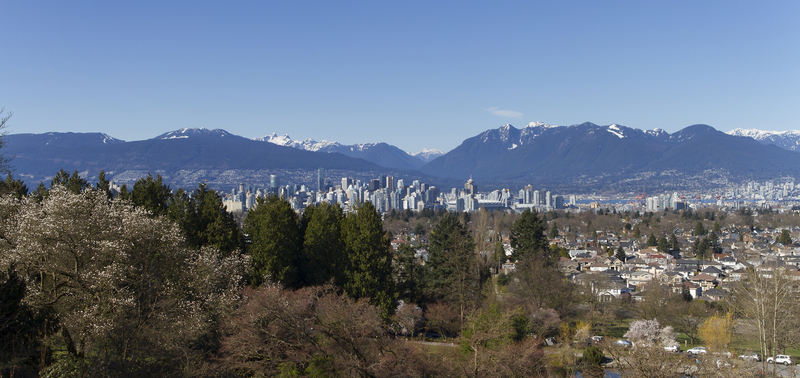
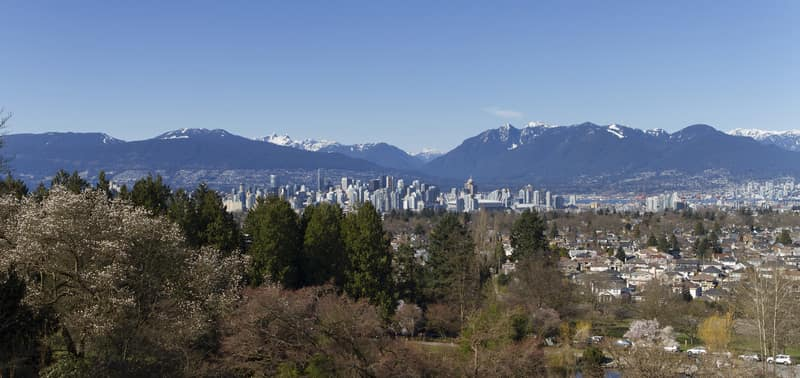
Shrink the home hero and let listing photos resize.
The hero file was a heavy JPEG at a small pixel size. Listing photos from the feed now go through the image optimizer instead of the full original.

diff --git a/src/components/property-card.tsx b/src/components/property-card.tsx
@@ -51,7 +51,7 @@ export function PropertyCard({
               sizes="(max-width: 640px) 100vw, (max-width: 1024px) 50vw, 33vw"
               className="property-image object-cover"
               priority={priority}
-              unoptimized={property.images[0].startsWith("http")}
+              unoptimized={property.images[0].startsWith("http") && !property.images[0].includes("ddfcdn.realtor.ca")}
             />
           ) : (
             <div className="grid h-full place-items-center text-[13px] text-white">No photo supplied</div>

diff --git a/src/app/page.tsx b/src/app/page.tsx
@@ -76,7 +76,7 @@ export default async function HomePage() {
             <Link
               href="/featured"
               aria-label="View More Featured Properties"
-              className="inline-flex h-10 items-center bg-[#1976d2] px-6 text-sm font-bold tracking-[1px] !text-white uppercase hover:bg-[#145ca4]"
+              className="inline-flex h-11 items-center bg-[#1976d2] px-6 text-sm font-bold tracking-[1px] !text-white uppercase hover:bg-[#145ca4]"
             >
               View More
             </Link>
